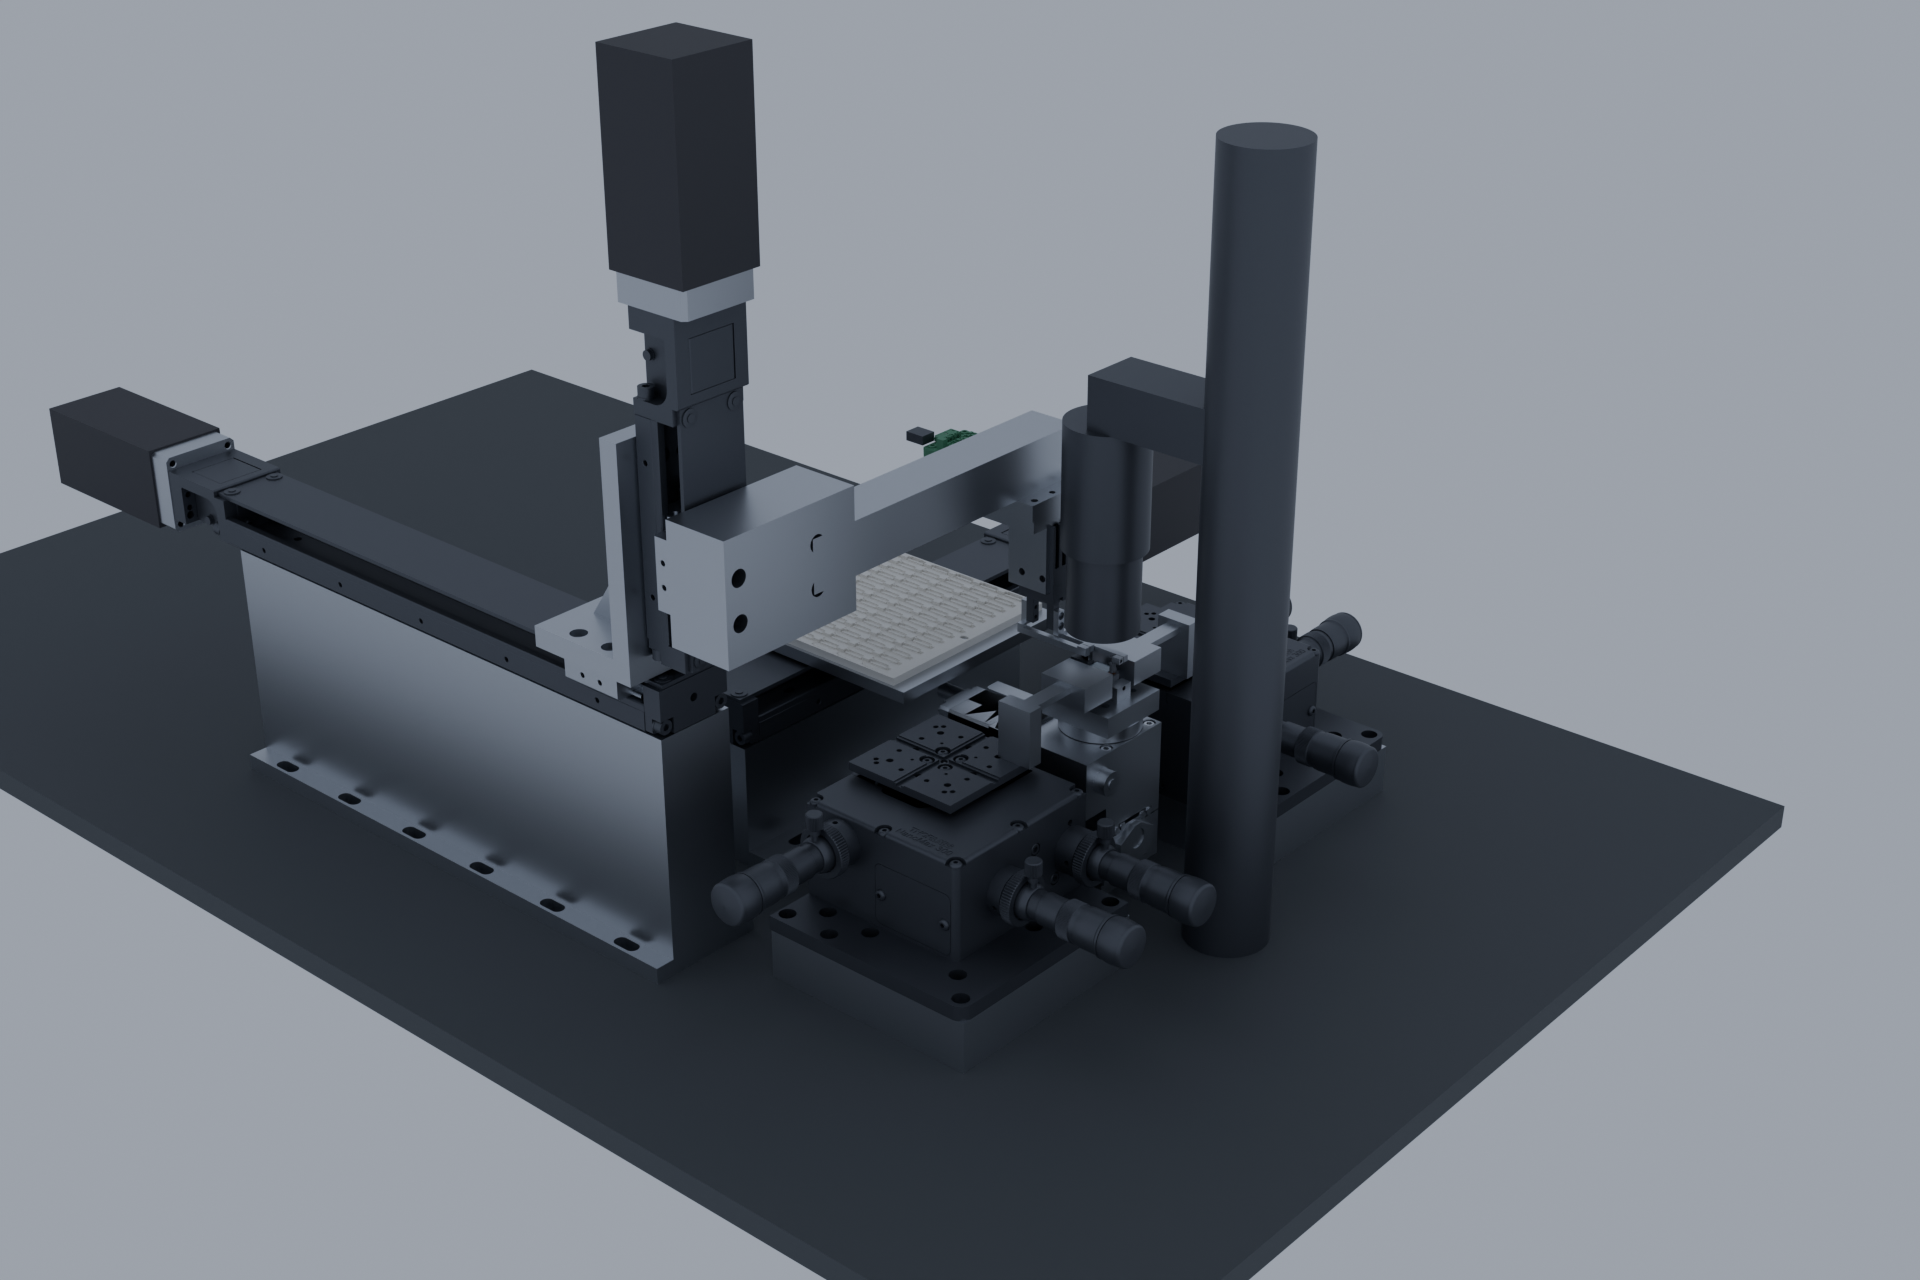
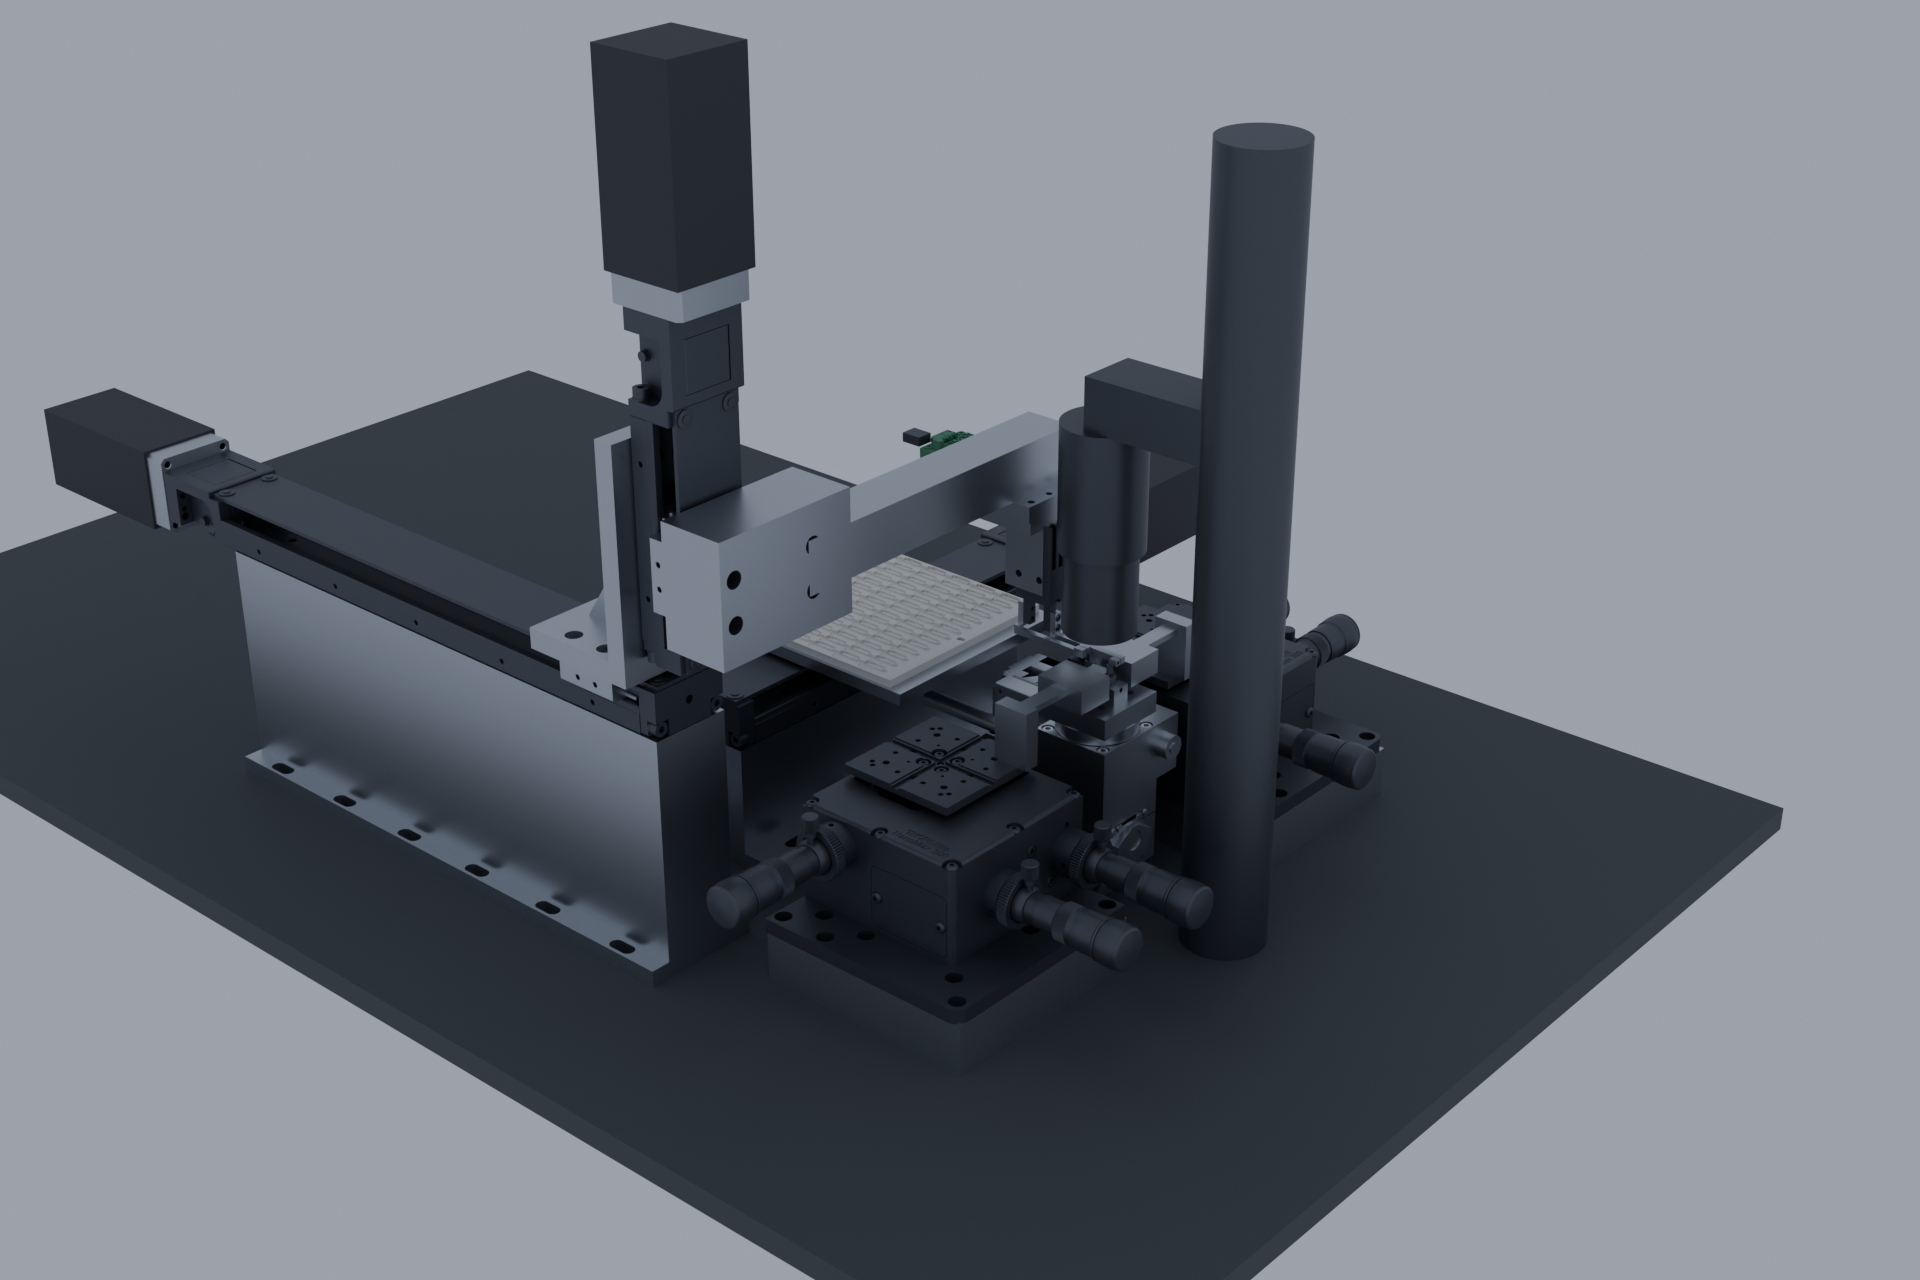
3D-viz agent: rebuild from the ghost-free assembly, record source.json
First run under the two-agent interface of CLAUDE.md section 5.

The far-column copy has moved out of station_assembly.step.zip into its own
station_far_column.step, so the assembly is 65 members and the *_at_far_col strip
matches nothing. The strip is kept on purpose: that suffix is still how those
members are named, so converting the far-column file and pointing --glb at it
gives one machine rather than two overlaid. The only member now dropped is
objective_keepout, a clearance volume rather than a part; camera_fov is dropped
the same way when it appears.

step_to_glb.py writes cad/blender/source.json with the sha256 of the zip it
consumed and the build time, so `cad/build.py --check` can report when these
outputs are behind the station. It is written only when the input is the zip on
the branch, since that is the interface.

attach() now exits instead of warning when a member is missing: the names are the
agreed interface, and a part that quietly failed to join its axis would stand
still in the render while everything around it moved.

Rebuilt and verified against the new assembly - 64 parts kept, all eight checks in
verify_scene.py pass, stills re-rendered.

diff --git a/cad/blender/step_to_glb.py b/cad/blender/step_to_glb.py
@@ -19,6 +19,9 @@ assembly STEP it comes from.
 """
 
 import argparse
+import datetime
+import hashlib
+import json
 import os
 import sys
 import time
@@ -59,6 +62,29 @@ def step_from(path, workdir):
     return out
 
 
+def record_source(source_path, out_dir):
+    """Write cad/blender/source.json so staleness against the station is visible, not silent.
+
+    `cad/build.py --check` compares this sha256 with the station assembly in its manifest and says
+    when the Blender outputs come from an older station (CLAUDE.md section 5).
+    """
+    digest = hashlib.sha256()
+    with open(source_path, "rb") as handle:
+        for chunk in iter(lambda: handle.read(1 << 20), b""):
+            digest.update(chunk)
+    record = {
+        "station_assembly_zip_sha256": digest.hexdigest(),
+        "built": datetime.datetime.now(datetime.timezone.utc)
+                 .replace(microsecond=0).isoformat().replace("+00:00", "Z"),
+    }
+    path = os.path.join(out_dir, "source.json")
+    with open(path, "w", encoding="utf-8") as handle:
+        json.dump(record, handle, indent=2)
+        handle.write("\n")
+    print("[src] %s  %s" % (record["station_assembly_zip_sha256"][:16], path))
+    return record
+
+
 def report(glb_path):
     """Print the part count and bounding box so the conversion can be checked against the CAD."""
     import numpy as np
@@ -90,7 +116,8 @@ def main():
 
     import cascadio
 
-    src = step_from(os.path.abspath(args.source), args.workdir)
+    source = os.path.abspath(args.source)
+    src = step_from(source, args.workdir)
     print(f"[step] {src}  ({os.path.getsize(src) / 1e6:.0f} MB)")
     print(f"[mesh] linear {args.tol_linear} mm, angular {args.tol_angular} rad")
 
@@ -107,6 +134,11 @@ def main():
     print(f"[glb] {args.output}  ({os.path.getsize(args.output) / 1e6:.0f} MB) "
           f"in {time.time() - t0:.0f} s")
     report(os.path.abspath(args.output))
+    if source.lower().endswith(".zip"):
+        record_source(source, HERE)
+    else:
+        print("[src] source.json not written: the interface is the .zip on the branch, and %s "
+              "is not it" % os.path.basename(source))
 
 
 if __name__ == "__main__":

diff --git a/cad/blender/build_scene.py b/cad/blender/build_scene.py
@@ -42,14 +42,16 @@ COLLECTIONS = [
     ("Tray camera", ("camera_",)),
 ]
 
-# The station STEP carries the moving group twice: opaque at the nest, and a second translucent copy
-# of the X carriage, tower, arm, gripper and camera at the farthest tray column, as the worst case for
-# travel and for the tower.  STEP has no reliable transparency, so both arrive solid.  Only the copy
-# at the nest is wanted here - the animation moves it through the travel the ghost stands for.
-# The marker sits mid-name on the gripper and camera members (gripper_at_far_col_near_arm), so match
-# it anywhere, not just as a suffix.
+# The worst-case pose - the X carriage, tower, arm, gripper and camera at the farthest tray column -
+# now lives in its own file, station_far_column.step, so the main assembly carries no ghosts and
+# this marker normally matches nothing.  It is kept because the marker is how those members are
+# named (cad/station/README.md, "Assembly member names"), so pointing --glb at a conversion of the
+# far-column file still yields one machine rather than two overlaid.  The marker sits mid-name on
+# the gripper and camera members (gripper_at_far_col_near_arm), so match it anywhere.
 DROP_MARKER = "_at_far_col"
-DROP_NAMES = {"objective_keepout"}
+
+# Render aids: volumes the station model draws to show clearance, not parts of the machine.
+DROP_NAMES = {"objective_keepout", "camera_fov"}
 
 # One solid of the Suruga KXC04015-C die stage arrives from the STEP without a product name (the
 # vendor path aliases the knob onto the coupling solid, cad/nest/model.py:337, so a member is left
@@ -391,7 +393,8 @@ def main():
 
     made, dropped = sort_into_collections(objects)
     kept = [o for o in bpy.data.objects if o.type == "MESH"]
-    print("[scene] %d parts kept, %d clearance-study ghosts dropped" % (len(kept), dropped))
+    print("[scene] %d parts kept, %d render aids and far-column copies dropped"
+          % (len(kept), dropped))
     for name in sorted(made):
         print("[scene]   %-12s %3d" % (name, len(made[name].objects)))
     if "Other" in made:

diff --git a/cad/blender/animate_exchange.py b/cad/blender/animate_exchange.py
@@ -121,7 +121,12 @@ def empty(name, parent=None):
 
 
 def attach(names, target):
-    """Parent objects to an empty without moving them."""
+    """Parent objects to an empty without moving them.
+
+    A missing name is fatal, not a warning: the member names are the interface with the station
+    model (CLAUDE.md section 5), and a part that quietly fails to join its axis would simply stand
+    still in the render while everything around it moved.
+    """
     missing = []
     for name in names:
         obj = bpy.data.objects.get(name)
@@ -133,7 +138,10 @@ def attach(names, target):
         obj.matrix_parent_inverse = target.matrix_world.inverted()
         obj.matrix_world = world
     if missing:
-        print("[rig] WARNING not found: %s" % ", ".join(missing))
+        sys.exit("[rig] not in the assembly: %s\n"
+                 "      the station's member names changed; check cad/station/README.md, "
+                 "\"Assembly member names\", and update the axis lists here."
+                 % ", ".join(missing))
 
 
 def build_rig():

diff --git a/cad/blender/README.md b/cad/blender/README.md
@@ -2,11 +2,14 @@
 
 This folder turns the station assembly into a Blender scene and animates one die exchange on it.
 It is **downstream of the CAD, not a CAD component**: nothing here defines geometry, and
-`cad/build.py` does not know about it. **Before editing either script, read
-[BLUEPRINT.md](BLUEPRINT.md)** — the rules there come from bugs that already shipped here. The
-single input is
-[`../station/STEP/station_assembly.step.zip`](../station/STEP/), which `cad/station/model.py` writes
-and which is tracked in the repo.
+`cad/build.py` does not know about it. **Before editing anything here, read
+[BLUEPRINT.md](BLUEPRINT.md)** — the rules come from bugs that already shipped.
+
+Owned by the 3D-viz agent (CLAUDE.md §5). The inputs are
+[`../station/STEP/station_assembly.step.zip`](../station/STEP/) — the transport at the nest — and,
+for the worst-case pose, `station_far_column.step`. Nothing here reads the models themselves; the
+member-name prefixes in [`../station/README.md`](../station/README.md) ("Assembly member names") are
+the interface, and collections and materials key on those prefixes, never on an exact member list.
 
 ![station](renders/station_iso.png)
 ![the exchange region](renders/station_nest.png)
@@ -56,6 +59,7 @@ match for Cycles at this scale: use eevee to check motion, cycles for anything a
 | `step_to_glb.py` | tessellates the assembly STEP at 0.05 mm linear / 0.2 rad angular deflection and writes `station_assembly.glb`; prints part count and bounding box for checking |
 | `build_scene.py` | imports the GLB, sorts the parts into collections, assigns materials, adds lighting and five cameras, saves `die_tester_station.blend`, optionally renders stills |
 | `animate_exchange.py` | rigs the moving groups onto empties, keyframes the 14-step exchange, saves `die_tester_station_animated.blend`, optionally renders an mp4 |
+| `source.json` | the sha256 of the assembly zip the outputs were built from, plus a timestamp; `step_to_glb.py` writes it and `cad/build.py --check` reads it, so a scene left behind the station is visible rather than silent |
 | `verify_scene.py` | checks the animated scene against the static one — inventory, per-axis placement, die seating, contact band, loop closure — and exits non-zero if anything is off |
 
 `station_assembly.glb` and both `.blend` files are git-ignored (35 MB and 29 MB each); the scripts,
@@ -63,11 +67,15 @@ this README and `renders/` are tracked. Re-run the three steps to get them back.
 
 ## What ends up in the scene
 
-**64 parts.** The STEP carries the moving group twice: opaque at the nest, and a second copy of the
-X carriage, tower, arm, gripper and camera at the farthest tray column, which is the worst case for
-travel and for the tower. STEP has no reliable transparency, so both arrive solid. `build_scene.py`
-drops the 19 `*_at_far_col` members and the `objective_keepout` cylinder — the animation moves the
-real parts through the travel that ghost stands for.
+**64 parts, from 65 members.** The one dropped is `objective_keepout`, a clearance volume the
+station model draws as a render aid rather than a part of the machine (`camera_fov` is dropped the
+same way when present).
+
+The worst-case pose — the X carriage, tower, arm, gripper and camera at the farthest tray column —
+used to be a second solid copy inside this assembly and is now its own file,
+`station_far_column.step`. So the `*_at_far_col` strip in `build_scene.py` normally matches nothing.
+It is kept deliberately: that suffix is how those members are named, so converting the far-column
+file and pointing `--glb` at it still gives one machine instead of two overlaid.
 
 **Collections** follow the assembly member names: Table, Nest, Fibers, Microscope, Tray, X axis,
 Y axis, Z tower, Arm, Gripper, Tray camera.

diff --git a/cad/blender/BLUEPRINT.md b/cad/blender/BLUEPRINT.md
@@ -3,11 +3,21 @@
 Rules distilled from bugs that actually shipped here. Read before editing `build_scene.py` or
 `animate_exchange.py`. Longer explanations of what the folder does are in [README.md](README.md).
 
+## Scope
+
+This folder belongs to the 3D-viz agent (CLAUDE.md §5). Edit nothing outside it except this
+folder's row in `cad/README.md` and its block in `.gitignore`. The designer agent owns the models,
+`cad/build.py` and `docs/`; take renames and new members up with them rather than working around
+one here.
+
+Start every run from a freshly pulled branch, `git pull --rebase origin claude/autoloader-design`
+before every push, and push only a clean tree.
+
 ## The loop
 
 ```
-CAD change -> python cad/build.py            # regenerates station_assembly.step.zip
-           -> step_to_glb.py                 # 35 s
+CAD change -> python cad/build.py            # designer agent; regenerates station_assembly.step.zip
+           -> step_to_glb.py                 # 35 s; also writes source.json
            -> build_scene.py                 # 20 s
            -> animate_exchange.py            # 15 s
            -> verify_scene.py                # 30 s   <- MUST pass before rendering
@@ -38,7 +48,14 @@ script changes mid-render, the cameras disagree with each other.
 5. **Sign conventions bite.** "Park" is −X, towards the tray; +X drives the arm into the microscope
    column. Bringing tray row *r* to the die line is a −7.5·r stage move, not +7.5·r. Both were
    wrong once, and both look plausible until you check the endpoint.
-6. **Check what you changed against something independent.** The die-versus-jaws checks passed
+6. **Key on the documented name prefixes, never on an exact member list.** The prefixes in
+   `cad/station/README.md` ("Assembly member names") are the agreed interface. `attach()` exits
+   rather than warning when a name is missing, so a rename upstream stops the build instead of
+   quietly leaving a part behind while everything around it moves.
+7. **Every `step_to_glb.py` run writes `source.json`** — the sha256 of the zip it consumed.
+   `cad/build.py --check` compares it with the manifest and reports when these outputs are behind
+   the station. Do not hand-edit it, and do not skip the converter by reusing an old GLB.
+8. **Check what you changed against something independent.** The die-versus-jaws checks passed
    throughout the chuck bug, because both were on rigs and both were wrong together. Comparing
    against the *static* scene is what caught it.
 
